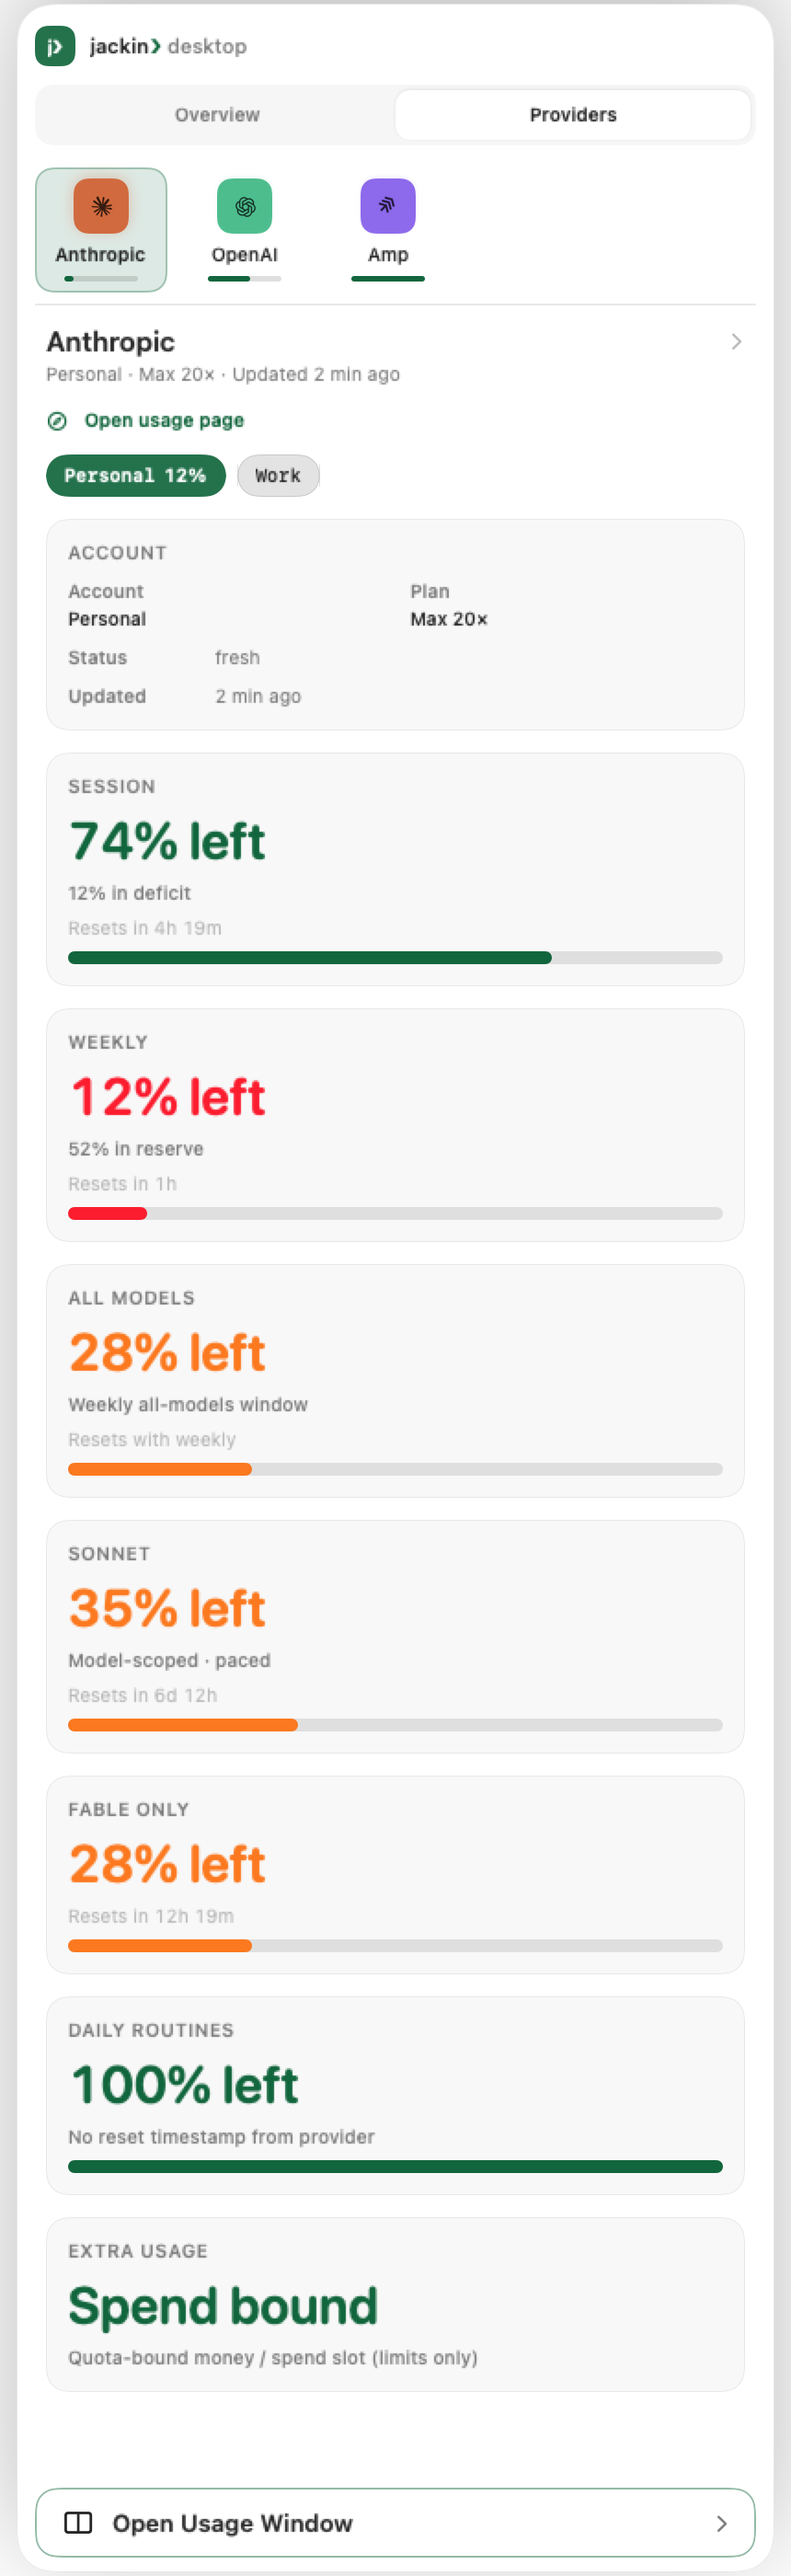
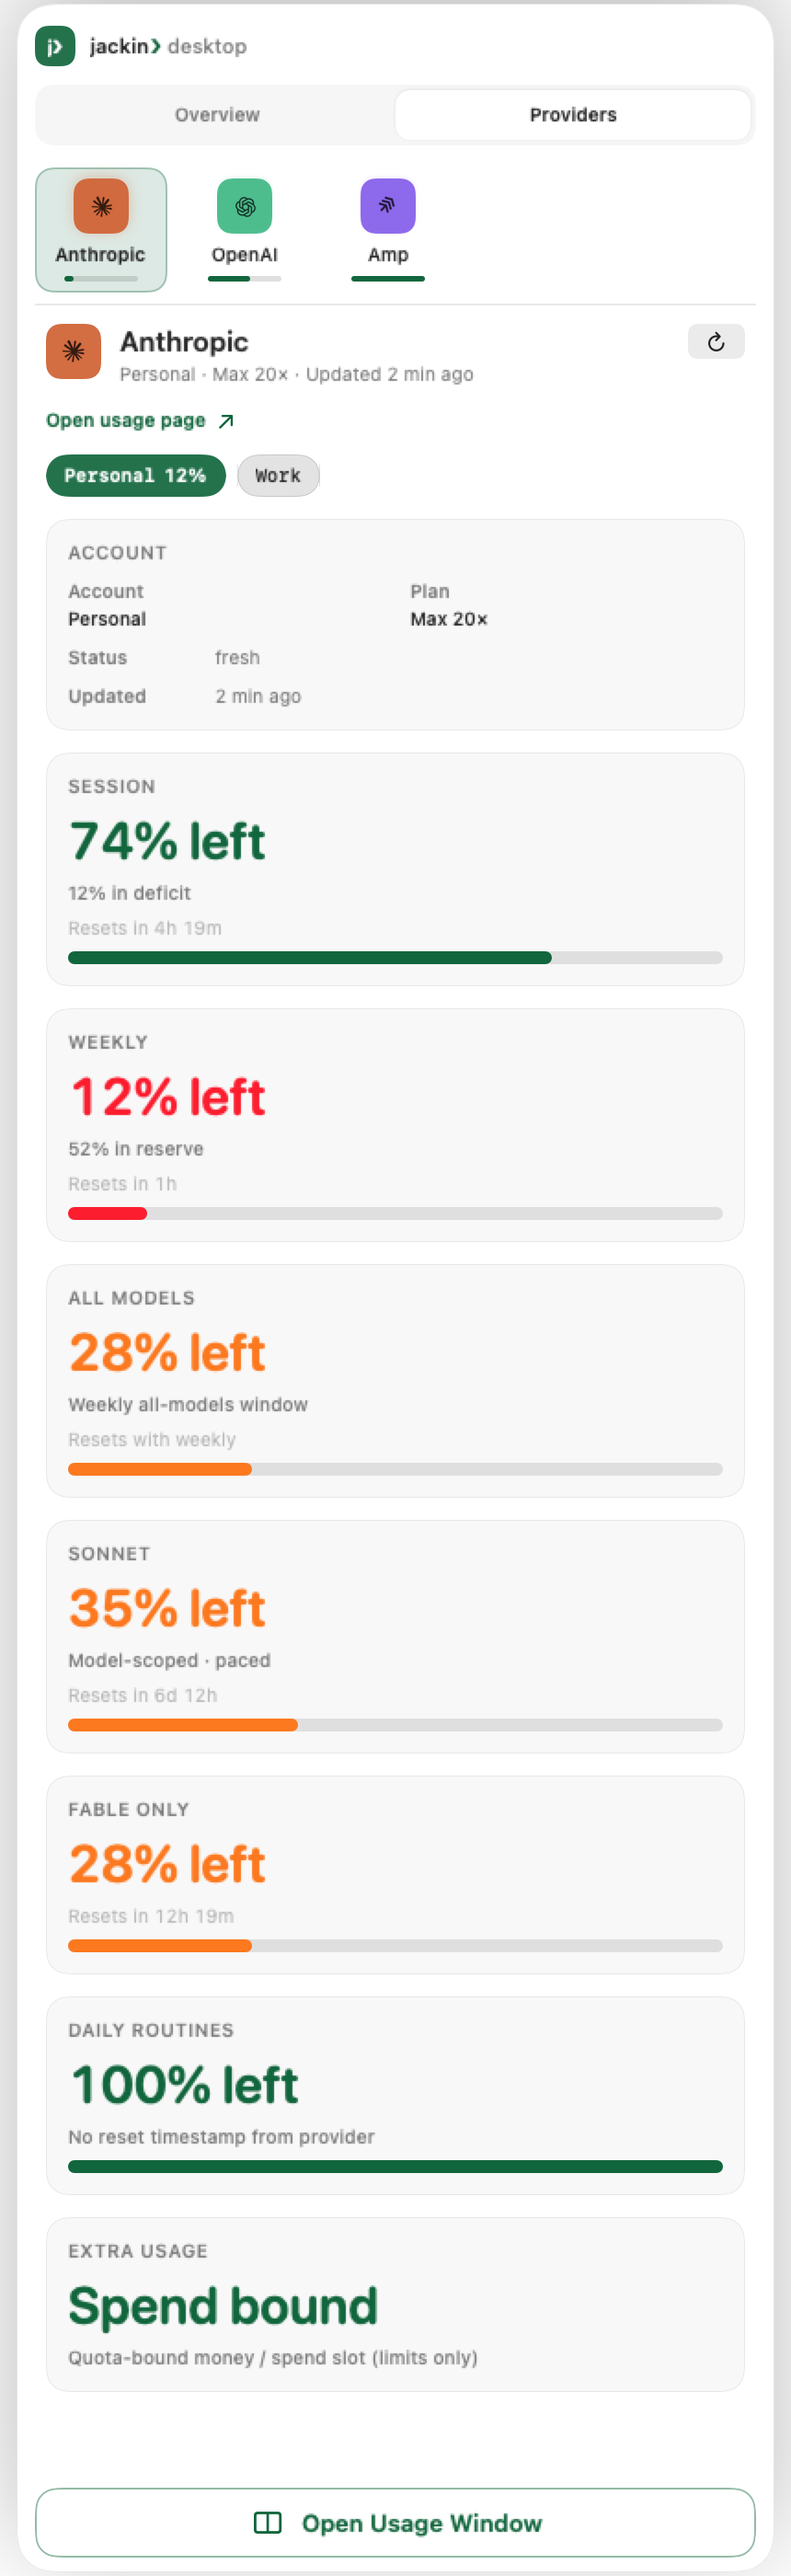
fix(desktop): match popover detail header
Restore the HTML provider identity plate and local refresh affordance. Remove the misleading Usage-window chevron and ambiguous Safari glyph.

diff --git a/native/Sources/JackinDesktop/Popover/PopoverProviderTab.swift b/native/Sources/JackinDesktop/Popover/PopoverProviderTab.swift
@@ -16,7 +16,7 @@ public struct PopoverProviderTab: View {
     public let accounts: [PresentationStore.AccountRow]
     public let refreshInProgress: Bool
     public let onSelectAccount: (String, String) -> Void
-    public let onOpenUsageWindow: (String) -> Void
+    public let onRefreshProvider: (String) -> Void
 
     public init(
         provider: PresentationStore.GlanceProviderRow,
@@ -24,45 +24,47 @@ public struct PopoverProviderTab: View {
         accounts: [PresentationStore.AccountRow],
         refreshInProgress: Bool,
         onSelectAccount: @escaping (String, String) -> Void,
-        onOpenUsageWindow: @escaping (String) -> Void
+        onRefreshProvider: @escaping (String) -> Void
     ) {
         self.provider = provider
         self.surface = surface
         self.accounts = accounts
         self.refreshInProgress = refreshInProgress
         self.onSelectAccount = onSelectAccount
-        self.onOpenUsageWindow = onOpenUsageWindow
+        self.onRefreshProvider = onRefreshProvider
     }
 
     public var body: some View {
         VStack(alignment: .leading, spacing: 12) {
-            // Identity header — open full Usage window (popover.html head + chevron).
-            Button {
-                onOpenUsageWindow(provider.surfaceId)
-            } label: {
-                HStack(alignment: .top, spacing: 10) {
-                    VStack(alignment: .leading, spacing: 2) {
-                        Text(provider.displayLabel)
-                            .font(.title3.weight(.semibold))
-                        Text(headerMetaLine)
-                            .font(.caption)
-                            .foregroundStyle(.secondary)
-                            .lineLimit(2)
-                    }
-                    Spacer(minLength: 8)
+            // HTML `.detail-head`: provider plate + identity + local refresh.
+            HStack(alignment: .top, spacing: 10) {
+                providerLogoPlate
+                VStack(alignment: .leading, spacing: 2) {
+                    Text(provider.displayLabel)
+                        .font(.title3.weight(.semibold))
+                    Text(headerMetaLine)
+                        .font(.caption)
+                        .foregroundStyle(.secondary)
+                        .lineLimit(2)
+                }
+                Spacer(minLength: 8)
+                Button {
+                    onRefreshProvider(provider.surfaceId)
+                } label: {
                     if refreshInProgress || provider.isRefreshing {
                         ProgressView().controlSize(.small)
+                    } else {
+                        Image(systemName: "arrow.clockwise")
+                            .font(.caption.weight(.semibold))
                     }
-                    Image(systemName: "chevron.right")
-                        .font(.caption.weight(.semibold))
-                        .foregroundStyle(.tertiary)
-                        .padding(.top, 4)
                 }
-                .contentShape(Rectangle())
+                .buttonStyle(.bordered)
+                .buttonBorderShape(.roundedRectangle(radius: 8))
+                .controlSize(.small)
+                .help("Refresh \(provider.displayLabel)")
+                .accessibilityLabel("Refresh \(provider.displayLabel)")
             }
-            .buttonStyle(.plain)
             .opacity(provider.dimmed ? 0.55 : 1)
-            .accessibilityHint("Open Usage window")
 
             if let error = provider.lastError, !error.isEmpty {
                 Text(error).font(.caption2).foregroundStyle(.red)
@@ -186,12 +188,37 @@ public struct PopoverProviderTab: View {
                 NSWorkspace.shared.open(url)
             }
         } label: {
-            Label(ProviderUsageLinks.openUsagePageTitle, systemImage: "safari")
+            HStack(spacing: 5) {
+                Text(ProviderUsageLinks.openUsagePageTitle)
+                Image(systemName: "arrow.up.right")
+                    .font(.caption2.weight(.semibold))
+            }
                 .font(.caption.weight(.semibold))
                 .foregroundStyle(Color.jackinPhosphor)
         }
         .buttonStyle(.plain)
         .accessibilityLabel(ProviderUsageLinks.openUsagePageTitle)
+    }
+
+    private var providerLogoPlate: some View {
+        let brand = desktopProviderBrandChrome(iconKey: provider.iconKey)
+        return ZStack {
+            RoundedRectangle(cornerRadius: 8, style: .continuous)
+                .fill(brand.opacity(0.95))
+            if let mark = ProviderMarks.swiftUIImage(forIconKey: provider.iconKey) {
+                mark
+                    .resizable()
+                    .interpolation(.high)
+                    .scaledToFit()
+                    .frame(width: 16, height: 16)
+                    .colorInvert()
+            } else {
+                Image(systemName: "circle.grid.cross")
+                    .font(.system(size: 12, weight: .semibold))
+                    .foregroundStyle(Color.white)
+            }
+        }
+        .frame(width: 30, height: 30)
     }
 
     /// Secondary account chips — selected = phosphor fill (popover.html account rail).

diff --git a/native/Sources/JackinDesktop/Popover/PopoverTabGrid.swift b/native/Sources/JackinDesktop/Popover/PopoverTabGrid.swift
@@ -158,7 +158,7 @@ public struct PopoverTabGrid: View {
     /// Official logomark on brand plate when bundled; SF Symbol fallback only if missing.
     /// Colors are decorative chrome only — not usage/severity data.
     private func brandPlate(iconKey: String?, selected: Bool) -> some View {
-        let brand = brandChrome(for: iconKey)
+        let brand = desktopProviderBrandChrome(iconKey: iconKey)
         return ZStack {
             RoundedRectangle(cornerRadius: 8, style: .continuous)
                 .fill(selected ? brand.opacity(0.95) : brand.opacity(0.78))
@@ -180,30 +180,6 @@ public struct PopoverTabGrid: View {
         }
         .frame(width: 30, height: 30)
         .shadow(color: brand.opacity(selected ? 0.35 : 0.15), radius: selected ? 4 : 1, y: 1)
-    }
-
-    /// HTML-adjacent brand plate fills (index/popover CSS plogo family) — UI chrome only.
-    private func brandChrome(for iconKey: String?) -> Color {
-        switch iconKey {
-        case "codex":
-            // OpenAI-adjacent green
-            return Color(red: 0.12, green: 0.72, blue: 0.52)
-        case "claude":
-            // Anthropic-adjacent warm
-            return Color(red: 0.86, green: 0.48, blue: 0.28)
-        case "amp":
-            return Color(red: 0.52, green: 0.38, blue: 0.92)
-        case "grok":
-            return Color(red: 0.35, green: 0.38, blue: 0.42)
-        case "zai":
-            return Color(red: 0.20, green: 0.55, blue: 0.95)
-        case "kimi":
-            return Color(red: 0.75, green: 0.35, blue: 0.55)
-        case "minimax":
-            return Color(red: 0.90, green: 0.55, blue: 0.20)
-        default:
-            return Color.jackinPhosphor
-        }
     }
 
     /// Meter geometry only — nil remaining = empty track (FB1-5).

diff --git a/native/Tools/DesktopArchitectureLint/main.swift b/native/Tools/DesktopArchitectureLint/main.swift
@@ -140,9 +140,12 @@ struct DesktopArchitectureLint {
             .appendingPathComponent("UsageWindow/ProviderCardView.swift")
         let popoverFooter = desktopRoot
             .appendingPathComponent("Popover/PopoverFooter.swift")
+        let popoverProvider = desktopRoot
+            .appendingPathComponent("Popover/PopoverProviderTab.swift")
         guard
             let providerText = try? String(contentsOf: providerCard, encoding: .utf8),
-            let footerText = try? String(contentsOf: popoverFooter, encoding: .utf8)
+            let footerText = try? String(contentsOf: popoverFooter, encoding: .utf8),
+            let popoverProviderText = try? String(contentsOf: popoverProvider, encoding: .utf8)
         else {
             fputs("FAIL  primary control sources missing\n", stderr)
             exit(2)
@@ -161,6 +164,18 @@ struct DesktopArchitectureLint {
             || !footerText.contains(".foregroundStyle(Color.jackinPhosphor)")
         {
             print("FAIL  popover Open Usage Window must stay centered and accent-tinted")
+            ok = false
+        }
+        if !popoverProviderText.contains("providerLogoPlate")
+            || !popoverProviderText.contains("onRefreshProvider(provider.surfaceId)")
+        {
+            print("FAIL  popover provider header must retain logo plate + local refresh")
+            ok = false
+        }
+        if popoverProviderText.contains("systemImage: \"safari\"")
+            || !popoverProviderText.contains("Image(systemName: \"arrow.up.right\")")
+        {
+            print("FAIL  popover usage link must use the HTML external-link affordance")
             ok = false
         }
         if ok {

diff --git a/native/Sources/JackinDesktop/ProviderMarks.swift b/native/Sources/JackinDesktop/ProviderMarks.swift
@@ -5,6 +5,20 @@ import AppKit
 import JackinUsageBridge
 import SwiftUI
 
+/// Provider identity chrome only. Never use these colors for quota state.
+public func desktopProviderBrandChrome(iconKey: String?) -> Color {
+    switch iconKey {
+    case "codex": Color(red: 0.12, green: 0.72, blue: 0.52)
+    case "claude": Color(red: 0.86, green: 0.48, blue: 0.28)
+    case "amp": Color(red: 0.52, green: 0.38, blue: 0.92)
+    case "grok": Color(red: 0.35, green: 0.38, blue: 0.42)
+    case "zai": Color(red: 0.20, green: 0.55, blue: 0.95)
+    case "kimi": Color(red: 0.75, green: 0.35, blue: 0.55)
+    case "minimax": Color(red: 0.90, green: 0.55, blue: 0.20)
+    default: Color.jackinPhosphor
+    }
+}
+
 /// Official provider logomarks (template PDF) for status bar, popover plates, and Usage chrome.
 ///
 /// **LG-P1–P4 / FB1-6:** status bar uses `NSImage.isTemplate = true` monochrome silhouettes.

diff --git a/native/Sources/JackinDesktop/PopoverRoot.swift b/native/Sources/JackinDesktop/PopoverRoot.swift
@@ -101,7 +101,9 @@ public struct PopoverRoot: View {
                 onSelectAccount: { surfaceId, accountKey in
                     store.setSelectedAccount(surfaceId: surfaceId, accountKey: accountKey)
                 },
-                onOpenUsageWindow: { id in onOpenUsage?(id) }
+                onRefreshProvider: { surfaceId in
+                    store.refresh(surfaceId: surfaceId)
+                }
             )
         } else if store.providerGlanceRows.isEmpty {
             emptyState

diff --git a/advisor-plans/qi-artifacts/deltas/2026-08-10-popover-openai.md b/advisor-plans/qi-artifacts/deltas/2026-08-10-popover-openai.md
@@ -16,6 +16,8 @@
 | Check | HTML | Native | Match |
 |-------|------|--------|-------|
 | Brand | jackin❯ desktop | same | Yes |
+| Detail head | official provider plate + identity + local refresh | same | Yes |
+| External usage | external-link arrow | same; no Safari glyph ambiguity | Yes |
 | Footer CTA | centered phosphor glyph + label | same; no trailing chevron | Yes |
 | Session order | 63% → On pace → Resets 2h 14m → meter | same | **Yes** |
 | Weekly order | 57% → 13% deficit → Resets 3d → meter | same | **Yes** |

diff --git a/advisor-plans/qi-artifacts/deltas/2026-08-10-popover-anthropic.md b/advisor-plans/qi-artifacts/deltas/2026-08-10-popover-anthropic.md
@@ -33,3 +33,7 @@
 
 ## Verdict
 **Verdict: Pass** (Dark + Light) — multi-limit density + G-P3 anatomy.
+
+Re-audit: provider detail head now matches HTML composition with official
+provider plate, identity text, local refresh control, and explicit external-link
+arrow for the official usage page.
